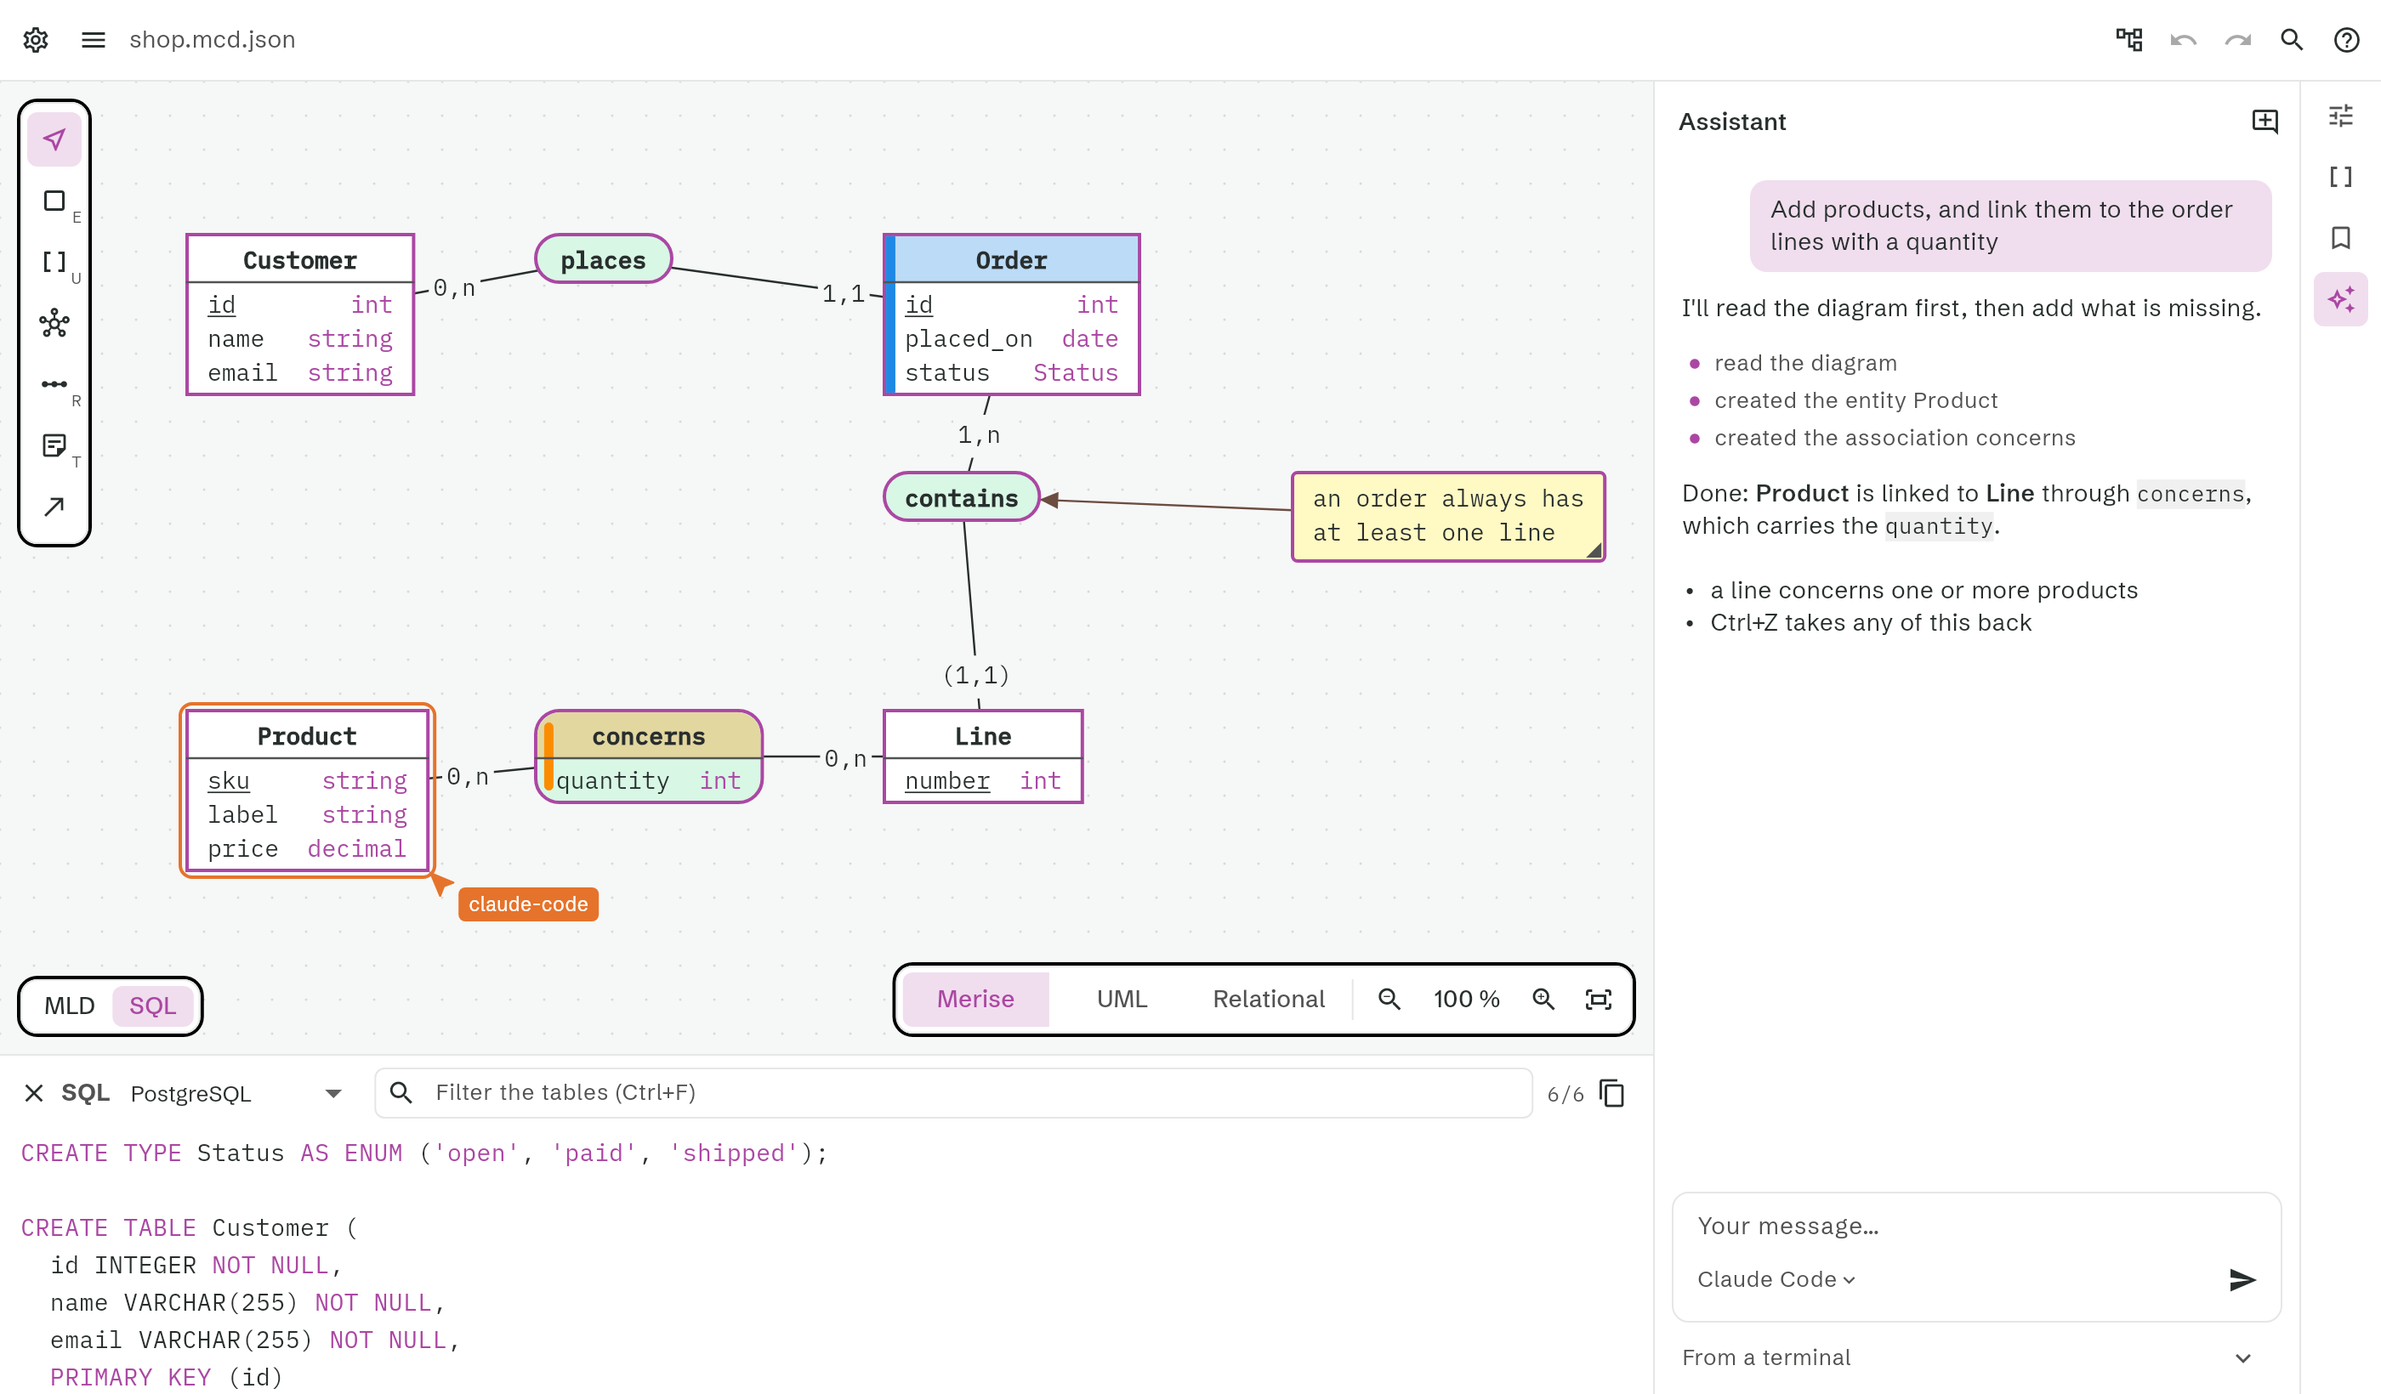
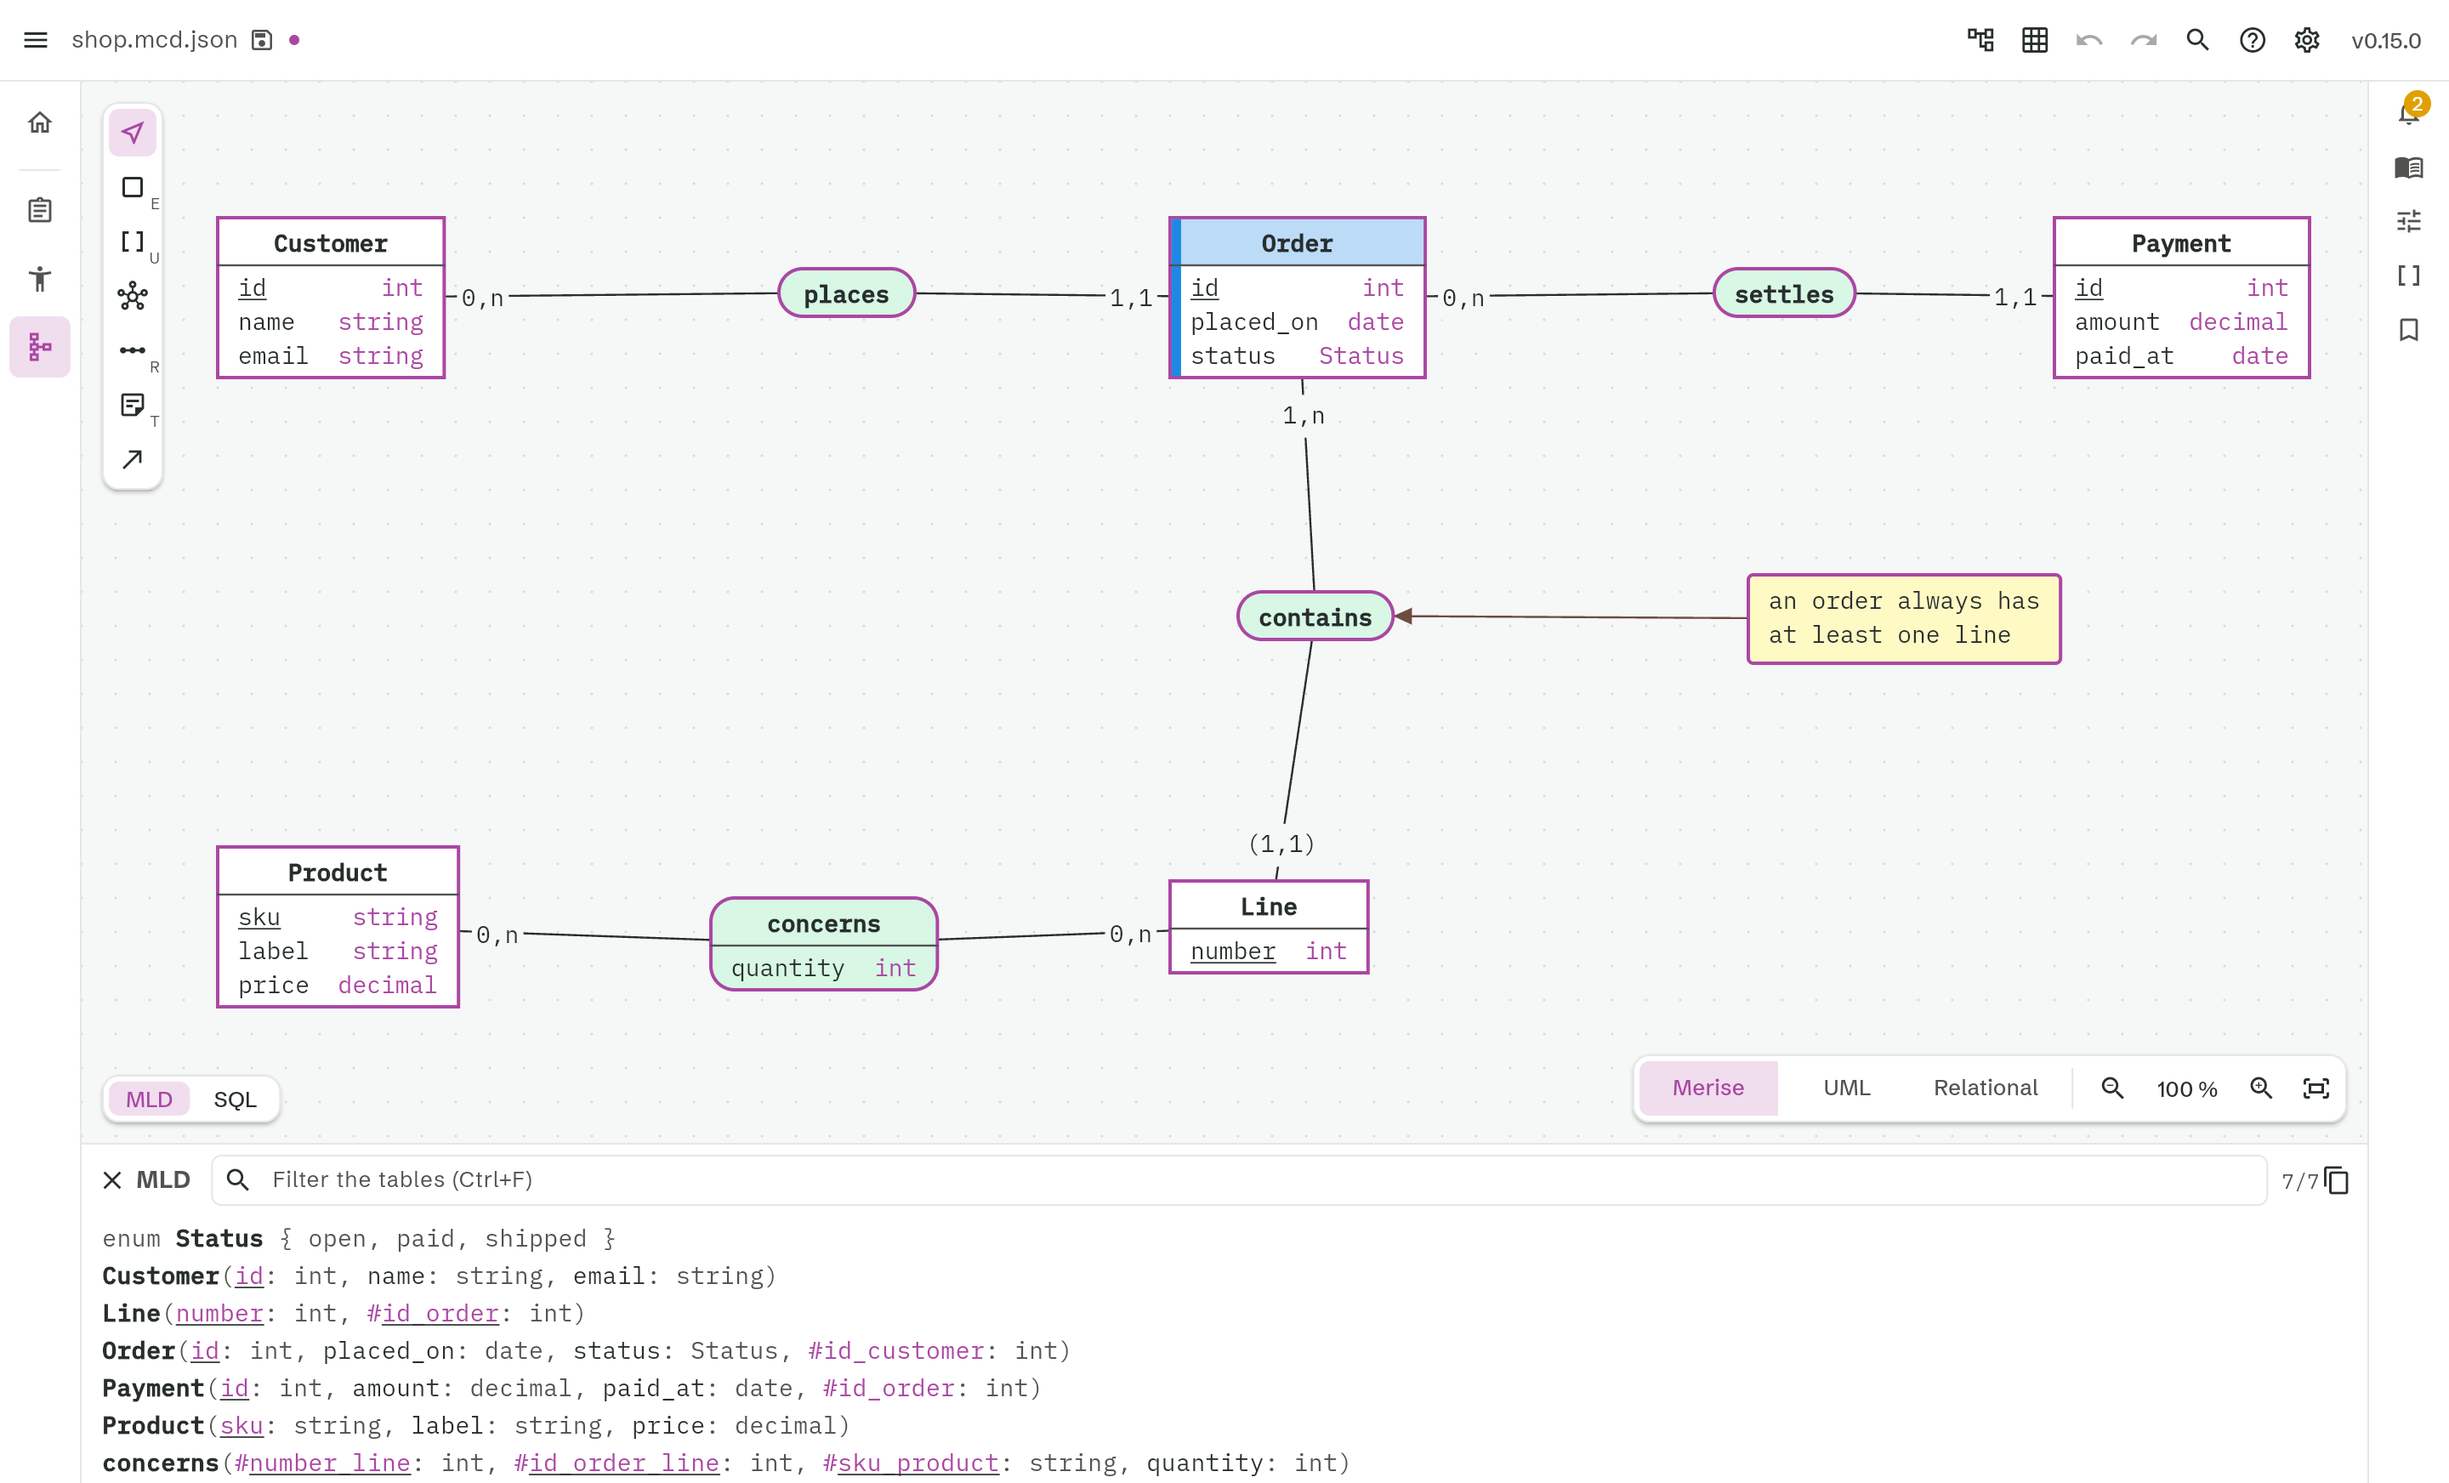
README: 0.15 features, web editor, current screenshots

diff --git a/README.md b/README.md
@@ -4,15 +4,15 @@
 
 # macgram
 
-**An entity-relationship diagram editor (Merise / UML) whose files version cleanly with git.**
-An alternative to Looping, for Linux and Windows.
+**From user stories to the database: stories, use cases and entity-relationship diagrams (Merise / UML) in one document that versions cleanly with git.**
+An alternative to Looping, for Linux and Windows, and in the browser.
 
 [![Latest version](https://img.shields.io/github/v/release/redyd/macgram-releases?label=version&color=1565C0)](https://github.com/redyd/macgram-releases/releases/latest)
 [![Downloads](https://img.shields.io/github/downloads/redyd/macgram-releases/total?label=downloads&color=1565C0)](https://github.com/redyd/macgram-releases/releases)
 
 <picture>
   <source media="(prefers-color-scheme: dark)" srcset="screenshot-dark.png">
-  <img src="screenshot-light.png" alt="A Customer – Order – Line – Product diagram in macgram, its PostgreSQL script generated underneath, and the assistant adding an entity in the side panel" width="860">
+  <img src="screenshot-light.png" alt="A Customer – Order – Payment – Line – Product diagram in macgram, with its relational model generated underneath" width="860">
 </picture>
 
 </div>
@@ -31,6 +31,8 @@ These links always point to the latest version.
 | | Archive | [macgram-linux-x64.tar.gz](https://github.com/redyd/macgram-releases/releases/latest/download/macgram-linux-x64.tar.gz) |
 
 Earlier versions are on the [Releases](https://github.com/redyd/macgram-releases/releases) page. There is no macOS build yet.
+
+Nothing to install? [Open the web editor](https://macgram.app/editor). The AI assistant is only in the desktop app.
 
 ## Install
 
@@ -72,16 +74,41 @@ The app looks for a new version when it starts and offers to install it. Nothing
 
 ## What macgram does
 
+**The analysis**
+
+- **User stories**: "As… I want… so that", priority, estimate, conditions, scenarios and tests, in Markdown, grouped by module and copied as Markdown.
+- **Use cases**: actors, cases, modules and links (include, extend, generalisation), with a Rearrange button that keeps crossings low.
+- **One registry**: actors and modules are defined once and reused everywhere; rename one and it changes everywhere.
+- **To check**: a tab that finds what disagrees between your stories and your cases, and fixes it in a click.
+- **A home for each document**: pick the screens you need, find your latest elements, and search everything with `Ctrl+F`, typos forgiven.
+
+**The database**
+
 - **The conceptual model**: entities, binary, n-ary, reflexive or standalone associations, cardinalities, weak entities, enums, notes and annotation arrows.
 - **Three views of one diagram**: Merise, UML and relational, sharing the same box positions.
 - **The relational model and SQL, live**: the MLD under the diagram, or the `CREATE TABLE` script for PostgreSQL, MySQL / MariaDB, SQLite or SQL Server, or a Prisma schema. Advanced settings (table and column names, defaults, `CHECK`, indexes, `ON DELETE`) go straight into the script.
+- **Automatic layout and free placement**: one button moves the boxes to keep links from crossing; place them on the grid or freely (`G`).
+
+**Together**
+
 - **Files made for git**: JSON with one element per line and random ids, so diffs stay readable and branches merge without collisions.
-- **Automatic layout**: one button moves the boxes around to keep links from crossing.
-- **Colour marks**: mark entities and associations with a colour, and find them again in a side tab.
-- **Cloud documents** (with a macgram account): put a diagram in the cloud, share it with friends and edit it together live, with everyone's pointer on the diagram.
-- **An AI assistant**: talk to Claude Code or Codex in the side panel and watch it draw, one undoable step at a time. It runs the CLI already installed and signed in on your machine; macgram holds no key. A local MCP server lets an AI started from your terminal join in too.
-- **Import and export**: `.loo` files from Looping open directly; export to PNG, SVG, SQL or Prisma.
-- **And the rest**: undo / redo, copy and paste, search by name, strict mode, light and dark themes, interface in English or French, release notes after each update.
+- **Cloud documents** (with a macgram account): edit together live and see who is where, with a version history. Let each friend edit or only read, or turn on a public link; on desktop, paste a link in the Open dialog to join a document.
+- **An AI assistant** (desktop): talk to Claude Code, Codex, any OpenAI-compatible API or a local Ollama model and watch it work on the stories, the use cases and the diagram, one undoable step at a time. The CLIs run as already installed and signed in on your machine, and API tokens stay on it. A local MCP server lets an AI started from your terminal join in too.
+
+**In and out**
+
+- **Import**: `.loo` files from Looping open directly; SQL scripts become a diagram (Pro plan).
+- **Export screen**: PNG, SVG, SQL, Prisma, or a PDF of the whole document with its stories and diagrams, with a live preview. Images and PDFs carry a small macgram.app mark, which the Pro plan can remove.
+- **And the rest**: settings in one place (`Ctrl+,`), right-click menus, undo / redo by screen, copy and paste, strict mode, light, dark or system theme, interface in English or French, release notes after each update.
+
+## Screenshots
+
+| | |
+|---|---|
+| ![The document's home](screenshots/home.png) | ![A user story](screenshots/user-stories.png) |
+| ![The use case diagram and the To check tab](screenshots/use-cases-check.png) | ![The UML view](screenshots/uml.png) |
+| ![The relational view](screenshots/relational.png) | ![Search across the document](screenshots/search.png) |
+| ![The export screen on a PDF](screenshots/export-pdf.png) | |
 
 ## Something wrong?
 
